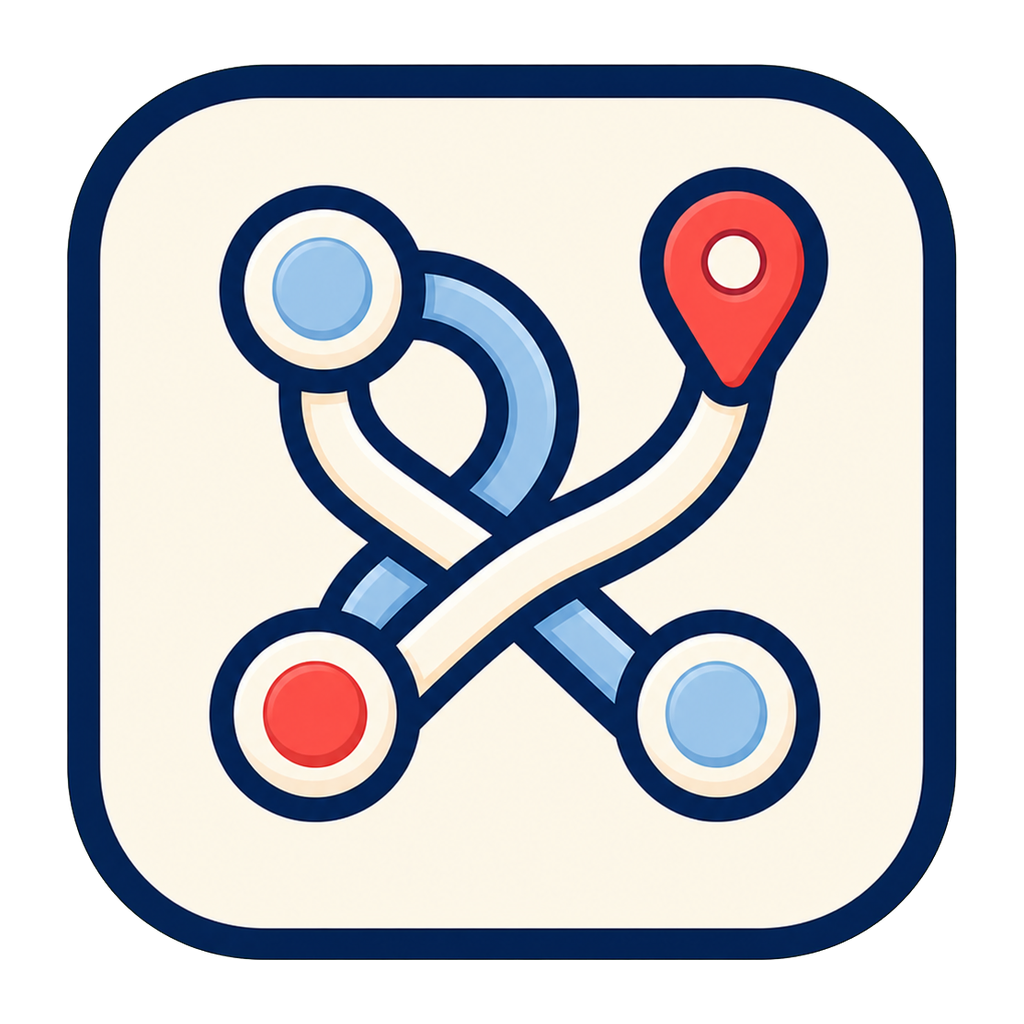
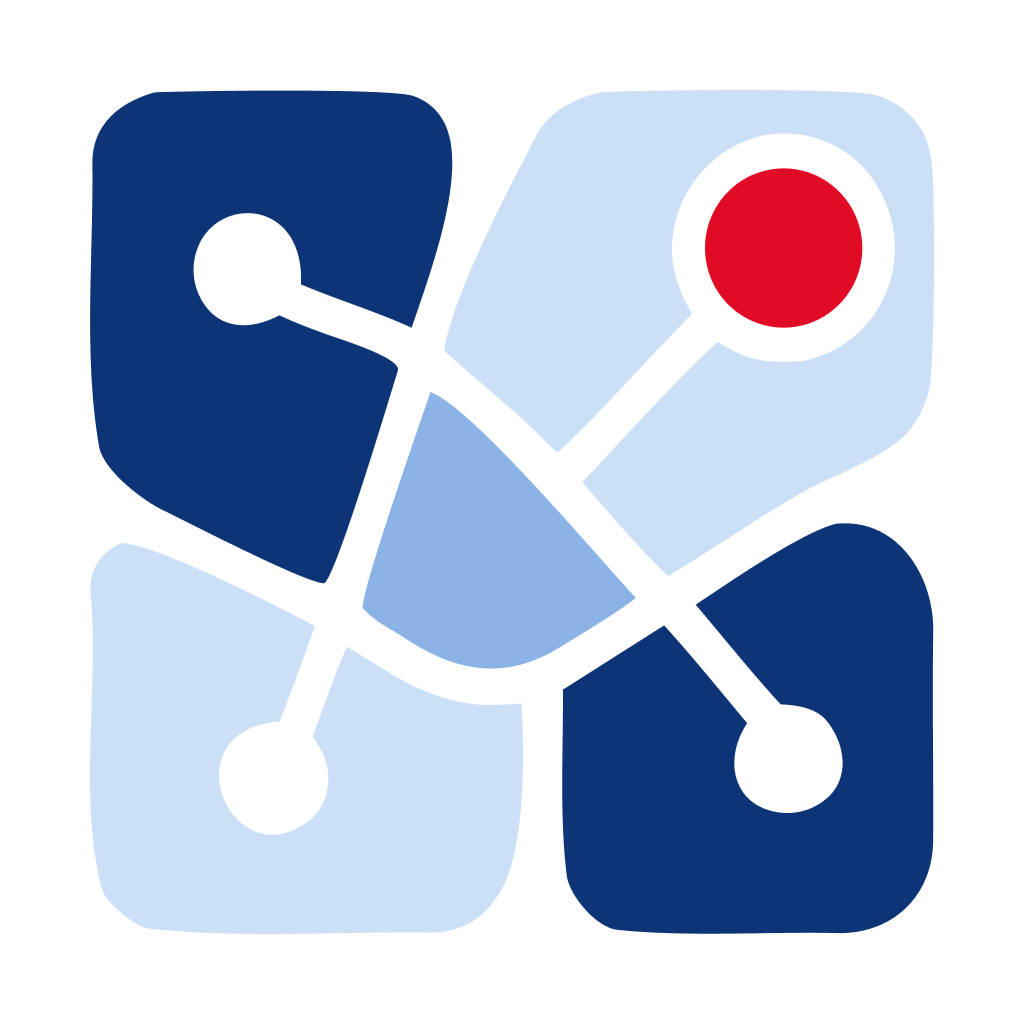
Refresh trip planner bundle

diff --git a/public/trip/index.html b/public/trip/index.html
@@ -3,15 +3,15 @@
   <head>
     <meta charset="UTF-8" />
     <meta name="viewport" content="width=device-width, initial-scale=1.0" />
-    <link rel="icon" type="image/svg+xml" href="/trip/favicon.svg" />
-    <title>Japan 2026 Travel Scheduler</title>
-    <script type="module" crossorigin src="/trip/assets/index-B1rcZ-LE.js"></script>
+    <link rel="icon" type="image/svg+xml" href="/trip/favicon.svg?v=kumi-planner" />
+    <title>Kumi Planner</title>
+    <script type="module" crossorigin src="/trip/assets/index-DdHmV1Mx.js"></script>
     <link rel="modulepreload" crossorigin href="/trip/assets/react-vendor-DjfiLmdf.js">
     <link rel="modulepreload" crossorigin href="/trip/assets/ui-vendor-BCagx_ng.js">
     <link rel="modulepreload" crossorigin href="/trip/assets/supabase-vendor-dIChsWQP.js">
     <link rel="modulepreload" crossorigin href="/trip/assets/money-vendor-C_hhlGgN.js">
     <link rel="stylesheet" crossorigin href="/trip/assets/ui-vendor-CoMsDA6Q.css">
-    <link rel="stylesheet" crossorigin href="/trip/assets/index-Dm9G-_0t.css">
+    <link rel="stylesheet" crossorigin href="/trip/assets/index-B8IIbxIv.css">
   </head>
   <body>
     <div id="root"></div>

diff --git a/public/trip/assets/ExpenseModal-eALYxqoq.js b/public/trip/assets/ExpenseModal-eALYxqoq.js
@@ -1,0 +1,1 @@
+import{r as P,j as e}from"./react-vendor-DjfiLmdf.js";import{u as w,a as B}from"./forms-vendor-k4b-W3oe.js";import{S as y,f as $,p as I}from"./index-DdHmV1Mx.js";import{j as C,X as F}from"./ui-vendor-BCagx_ng.js";import{o as z,s as a,b as A,Z as _}from"./validation-vendor-D3ftM8Ie.js";import"./supabase-vendor-dIChsWQP.js";import"./money-vendor-C_hhlGgN.js";const H=z({title:a().trim().min(1,"Add a title for this expense."),amountInput:a().trim().min(1,"Enter a real amount."),currency:a().min(1,"Choose a currency."),paidByTravelerClientId:a().min(1,"Choose who paid."),expenseDate:a().optional().default(""),participantTravelerClientIds:A(a()).min(1,"Choose at least one person to split with."),notes:a().optional().default("")}).superRefine((n,i)=>{I(`${n.currency} ${n.amountInput}`,n.currency)||i.addIssue({code:_.custom,path:["amountInput"],message:"Enter a real amount."})});function O({title:n,onClose:i}){return e.jsxs("div",{className:"dialog-header",children:[e.jsx("h2",{children:n}),e.jsx("button",{className:"icon-button",type:"button","aria-label":"Close dialog","data-dialog-close":!0,onClick:i,children:e.jsx(F,{size:18})})]})}function K({mode:n,expense:i,travelers:c,onCancel:N,onSave:E,onDelete:u}){var x,j,b,f,g;const[p,m]=P.useState(!1),{formState:{errors:l,isDirty:T,isValid:v},handleSubmit:D,register:r,setValue:S,watch:M}=w({resolver:B(H),mode:"onChange",defaultValues:{title:i.title??"",amountInput:i.amountMinor?$(i.amountMinor,i.currency):"",currency:i.currency??y[0],paidByTravelerClientId:i.paidByTravelerClientId??((x=c[0])==null?void 0:x.clientId)??"",expenseDate:i.expenseDate??"",participantTravelerClientIds:i.participantTravelerClientIds??[],notes:i.notes??""}}),o=M("participantTravelerClientIds")??[];function k(t){const s=o.includes(t)?o.filter(d=>d!==t):[...o,t];S("participantTravelerClientIds",s,{shouldDirty:!0,shouldValidate:!0})}function R(t){var d;const s=I(`${t.currency} ${t.amountInput}`,t.currency);E({...i,...t,title:t.title.trim(),amountMinor:(s==null?void 0:s.amountMinor)??i.amountMinor,currency:(s==null?void 0:s.currency)??t.currency,notes:((d=t.notes)==null?void 0:d.trim())??""})}const h=((j=l.title)==null?void 0:j.message)||((b=l.amountInput)==null?void 0:b.message)||((f=l.paidByTravelerClientId)==null?void 0:f.message)||((g=l.participantTravelerClientIds)==null?void 0:g.message);return e.jsx("div",{className:"dialog-backdrop",role:"presentation",children:e.jsxs("div",{className:"dialog editor-dialog expense-dialog",role:"dialog","aria-modal":"true","aria-label":n==="edit"?"Edit expense":"Add expense",children:[e.jsx(O,{title:n==="edit"?"Edit expense":"Add expense",onClose:N}),e.jsxs("form",{className:"expense-form",onSubmit:D(R),children:[e.jsxs("label",{className:"editor-field editor-field-title",children:["Title",e.jsx("input",{...r("title"),placeholder:"TeamLab tickets, train cards, dinner..."})]}),e.jsxs("div",{className:"expense-form-grid",children:[e.jsxs("label",{className:"editor-field",children:["Amount",e.jsx("input",{...r("amountInput"),inputMode:"decimal",placeholder:"6400"})]}),e.jsxs("label",{className:"editor-field",children:["Currency",e.jsx("select",{...r("currency"),children:y.map(t=>e.jsx("option",{children:t},t))})]}),e.jsxs("label",{className:"editor-field",children:["Paid by",e.jsx("select",{...r("paidByTravelerClientId"),children:c.map(t=>e.jsx("option",{value:t.clientId,children:t.name},t.clientId))})]}),e.jsxs("label",{className:"editor-field",children:["Date",e.jsx("input",{...r("expenseDate"),type:"date"})]})]}),e.jsxs("fieldset",{className:"expense-participants",children:[e.jsx("legend",{children:"Split between"}),e.jsx("div",{children:c.map(t=>e.jsxs("label",{children:[e.jsx("input",{type:"checkbox",checked:o.includes(t.clientId),onChange:()=>k(t.clientId)}),e.jsx("span",{children:t.name})]},t.clientId))})]}),e.jsxs("label",{className:"editor-field editor-field-notes",children:["Notes",e.jsx("textarea",{...r("notes"),placeholder:"Reservation number, who reimbursed outside the app, or anything useful..."})]}),h?e.jsx("p",{className:"expense-form-error",children:h}):null,e.jsxs("div",{className:`dialog-actions expense-dialog-actions${u?"":" is-single-action"}`,children:[p?e.jsxs("div",{className:"expense-delete-confirmation",role:"alert",children:[e.jsxs("p",{children:["Delete “",i.title||"this expense","”? This cannot be undone."]}),e.jsx("button",{className:"ghost-button",type:"button",onClick:()=>m(!1),children:"Cancel"}),e.jsxs("button",{className:"primary-button danger-button",type:"button",onClick:u,children:[e.jsx(C,{size:17}),"Delete expense"]})]}):u?e.jsxs("button",{className:"ghost-button danger",type:"button",onClick:()=>m(!0),children:[e.jsx(C,{size:17}),"Delete"]}):null,p?null:e.jsx(e.Fragment,{children:e.jsx("button",{className:"primary-button",type:"submit",disabled:!T||!v,children:"Save"})})]})]})]})})}export{K as default};